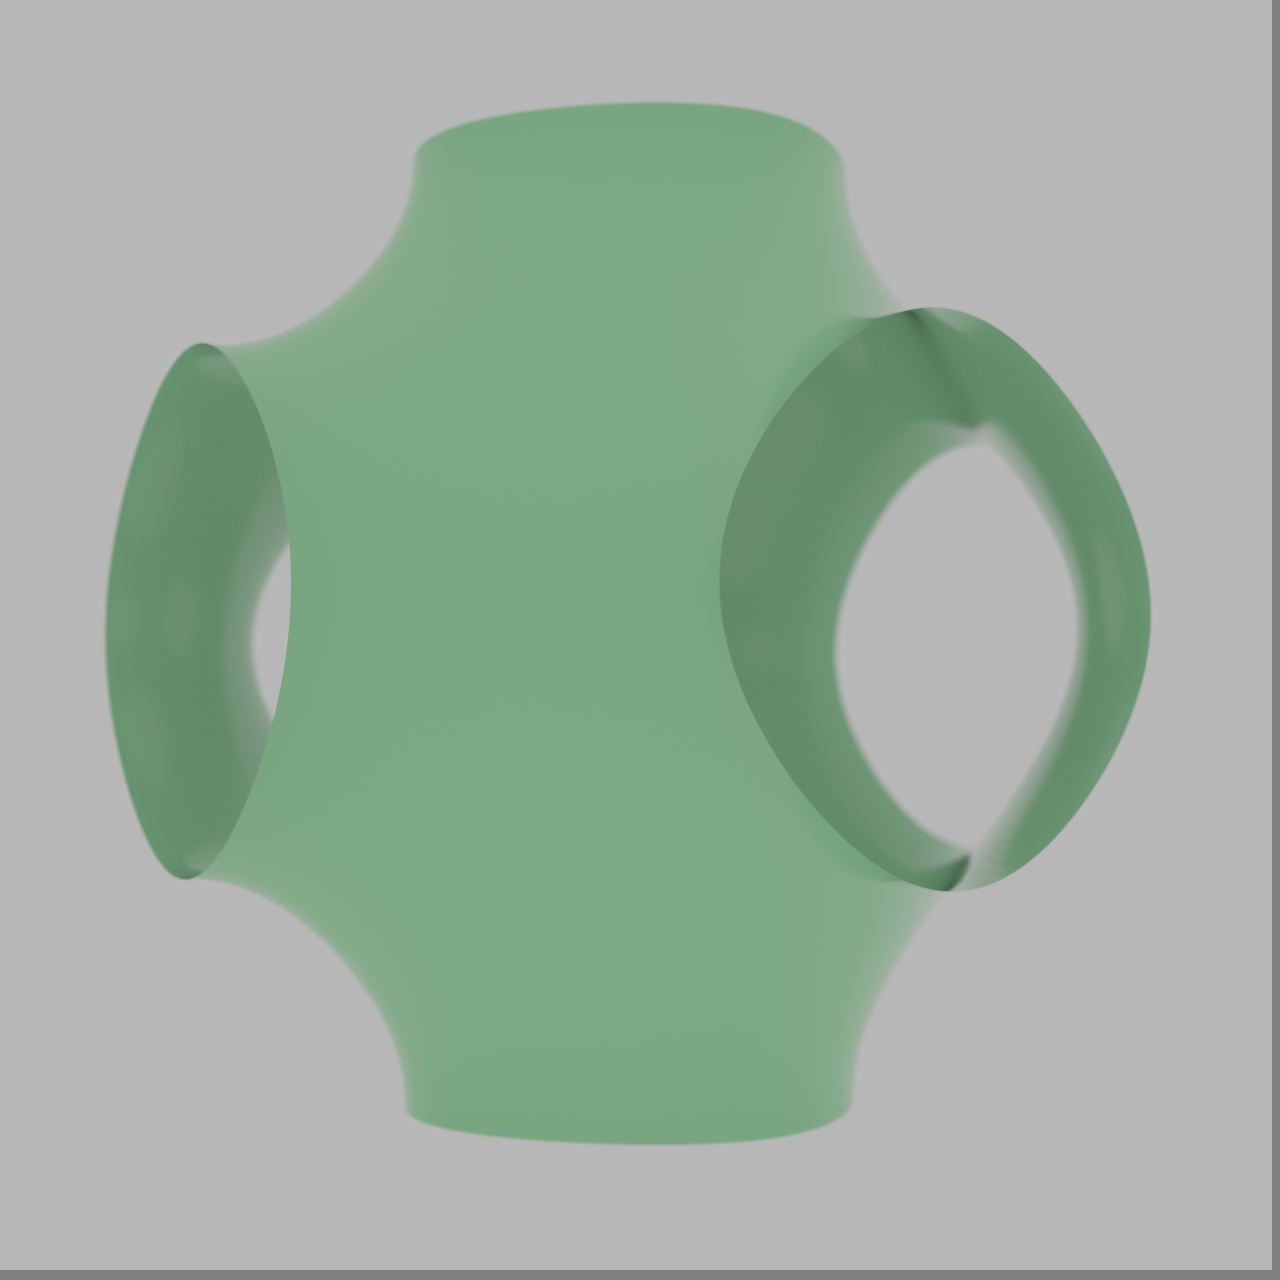
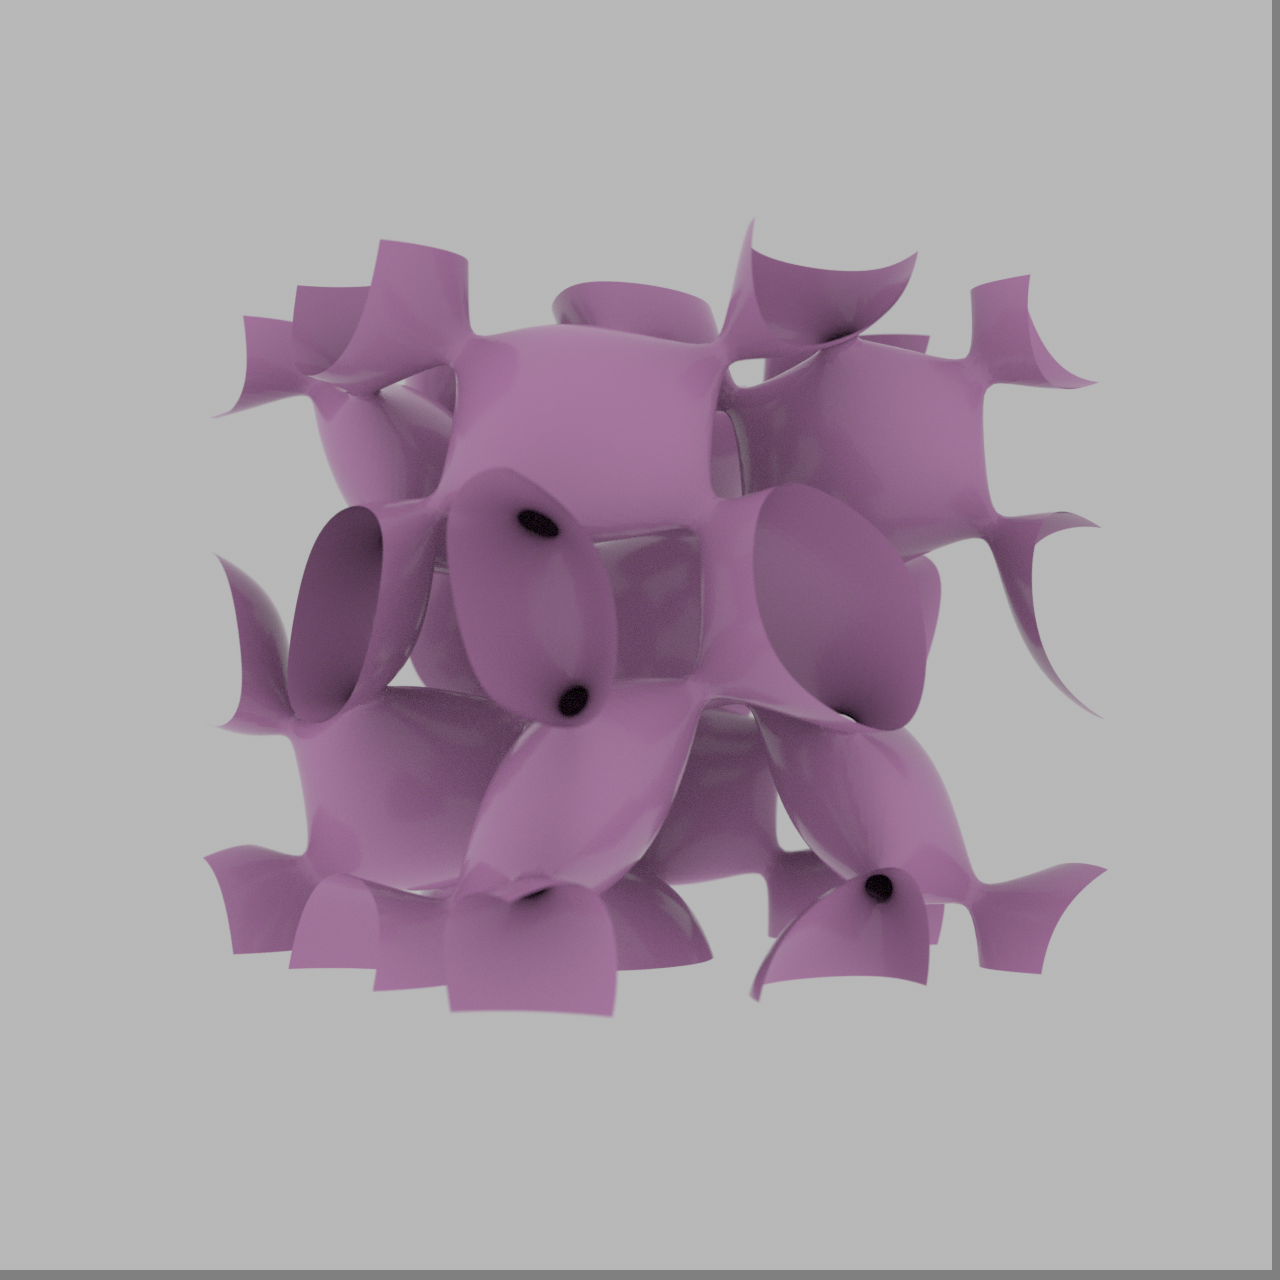
feat(gallery): autonomous schwarz_p (schwarz_p) recipe + pipeline

diff --git a/docs/recipe-book.md b/docs/recipe-book.md
@@ -1243,3 +1243,10 @@ geometry, the launcher `-2741` bug, and TCC.
 - **Equation:** n/a
 - **Mesh:** single manifold via `scripts/gen_implicit_surface.py lidinoid lidinoid 132 2.5 1`
 - **VLM check:** YES. Your render appears to capture the essential characteristics and topology of a lidinoid surface, including its single-connected manifold structure and symmetrical features. However, it may not pe
+
+## Surface (autonomous) — schwarz_p
+
+- **Outcome:** success (autonomous sequential run, 2026-07-13)
+- **Equation:** cos x + cos y + cos z = 0
+- **Mesh:** single manifold via `scripts/gen_implicit_surface.py schwarz_p schwarz_p 132 2.5 1`
+- **VLM check:** YES. The image appears to have the correct topology and symmetry for a Schwarz P surface, which typically exhibits a complex, interconnected structure with multiple arms extending from a central point

diff --git a/examples/recipes/schwarz_p/README.md b/examples/recipes/schwarz_p/README.md
@@ -5,4 +5,4 @@
 - **Material:** per-surface palette (see docs/recipe-book.md)
 - **Camera:** oblique (60° X, 30° Z)
 - **Render:** 1280×1280, ~5000 SPP
-- **Status:** ✅ rendered (autonomous run 2026-07-13); VLM check: YES. The image appears to correctly represent a single-connected manifold with the correct topology and symmetry of the Schwarz P surface as depicted in the canonical reference.
+- **Status:** ✅ rendered (autonomous run 2026-07-13); VLM check: YES. The image appears to have the correct topology and symmetry for a Schwarz P surface, which typically exhibits a complex, interconnected structure with multiple arms extending from a central point